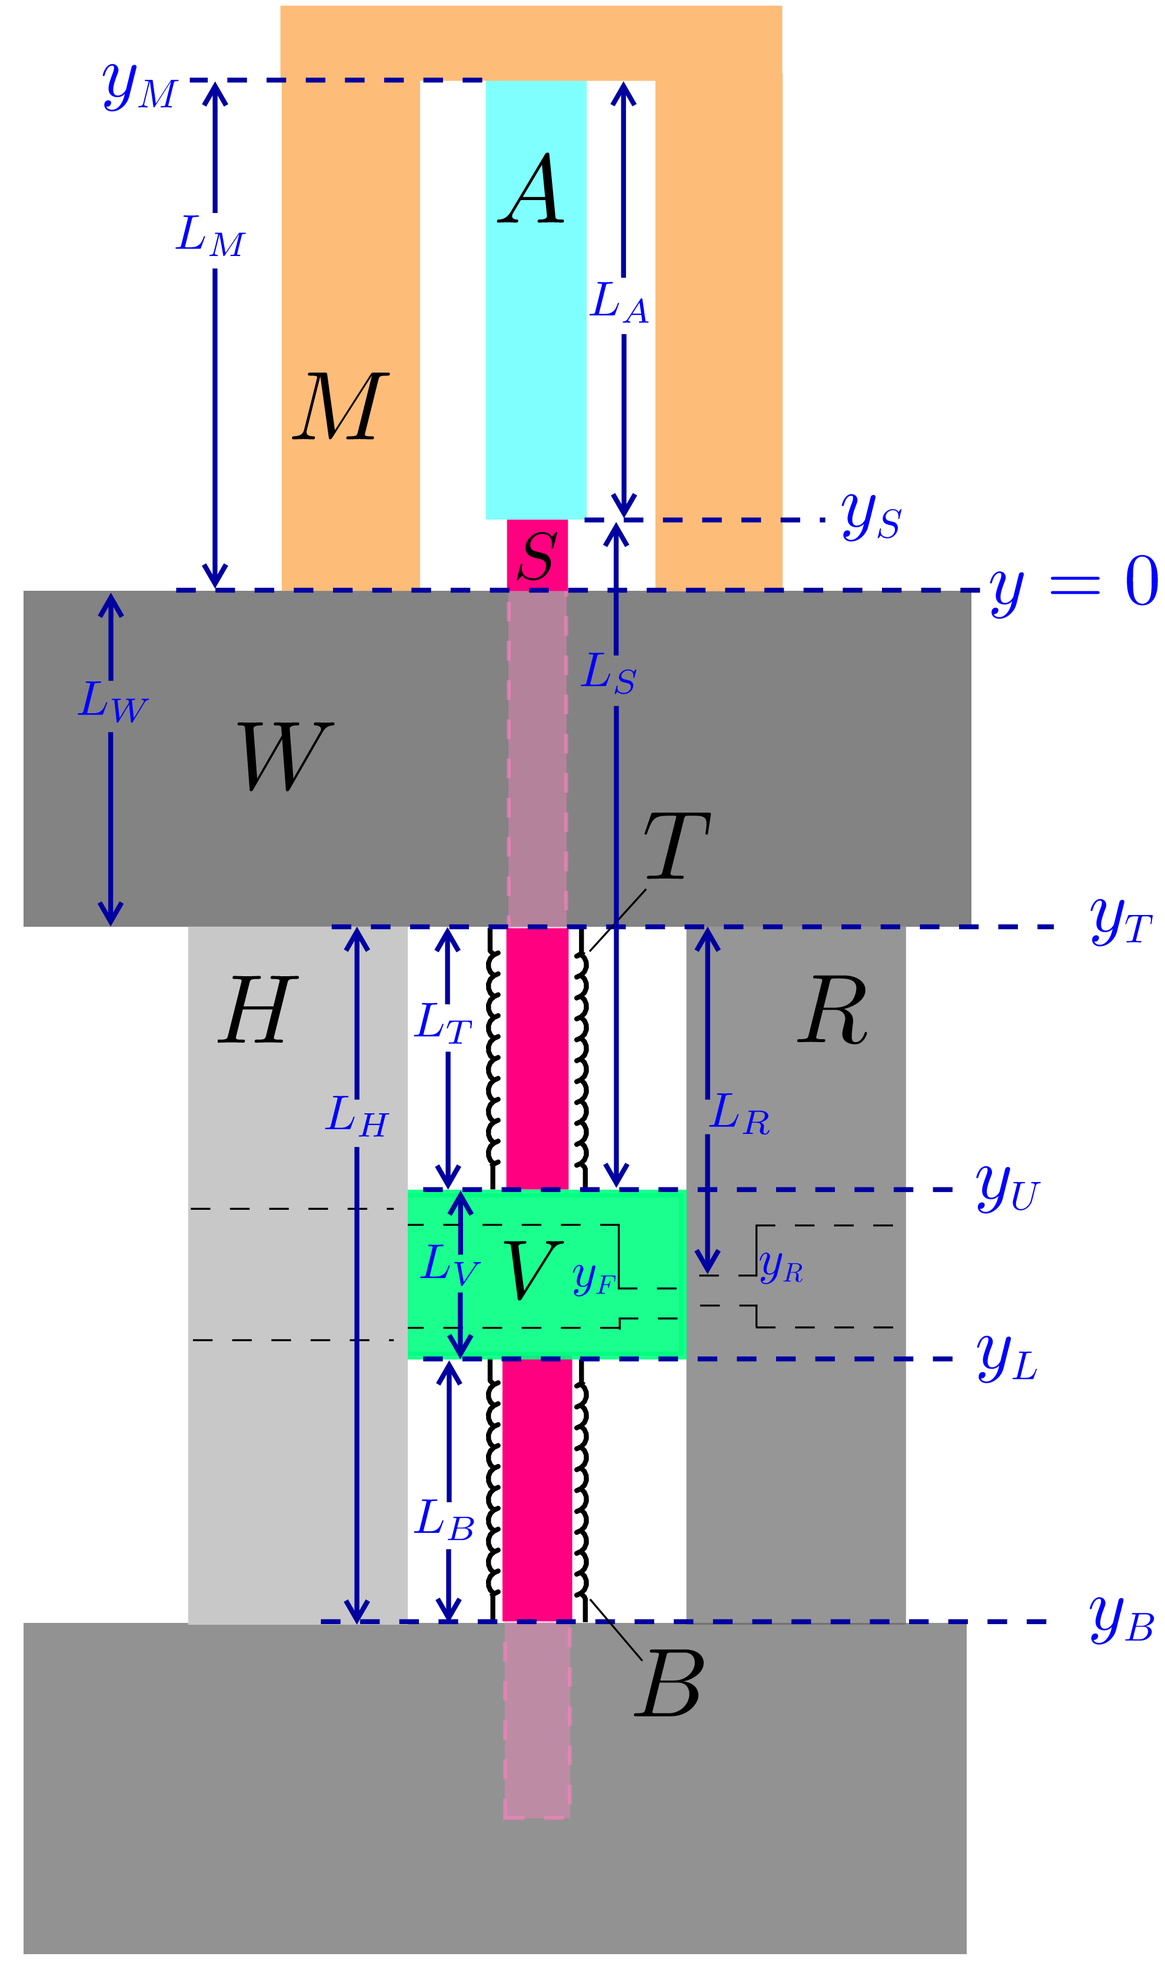
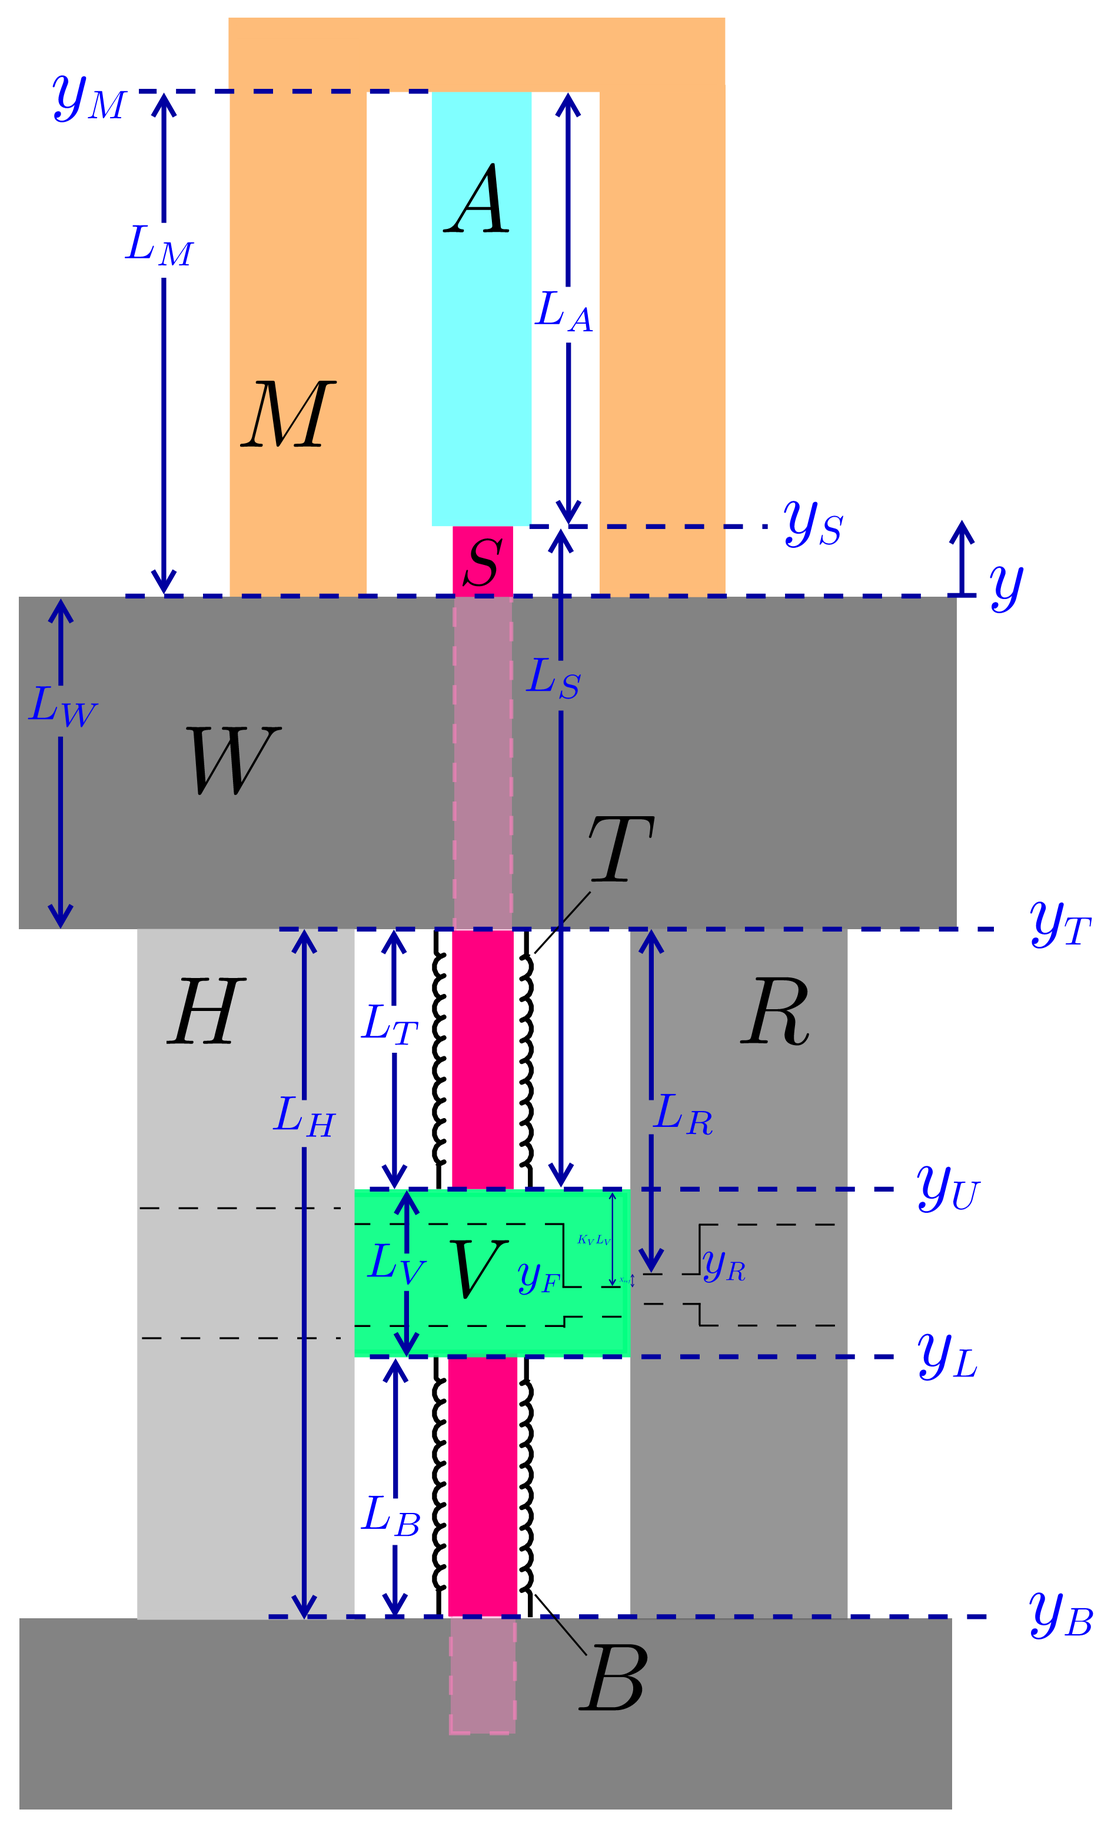
Almost done with TF; just need to add position sums and G_O

diff --git a/finalreport.tex b/finalreport.tex
@@ -131,7 +131,7 @@
 \newcommand{\coursename}{EME 185}
 \newcommand{\instructor}{Professor Jonathan Schofield}
 \newcommand{\ta}{Xiangpu Wang}
-\newcommand{\duedate}{5 June 2026}
+\newcommand{\duedate}{3 June 2026}
 % --- Convenience commands for common terms ---
 % Using these ensures consistent terminology throughout the report.
 \newcommand{\device}{PTCD}
@@ -148,6 +148,16 @@
 \newcommand{\Tref}{\SI{25}{\degreeCelsius}} %Celcius
 \newcommand{\specTempChange}{\SI{140}{\degreeCelsius}}
 
+\newcommand{\specEAl}{\SI{69}{\giga \pascal}}
+\newcommand{\specEALLV}{\SI{55}{\giga \pascal}}
+\newcommand{\specEInv}{\SI{193}{\giga \pascal}}
+\newcommand{\specEInc}{\SI{200}{\giga \pascal}}
+\newcommand{\specActuatorCTE}{\SI{22.85e-6}{\per \celsius}} %Evaluated at 25C
+\newcommand{\specMountCTE}{\SI{-30e-6}{\per \celsius}}
+\newcommand{\specInvarCTE}{\SI{1.2e-6}{\per \celsius}}
+\newcommand{\specInconelCTE}{\SI{13.2e-6}{\per \celsius}}
+\newcommand{\specBellowsK}{\SI{3806}{\newton \per \meter}}
+
 \newcommand{\Xhot}{\SI{480.696}{\micro \meter}}
 \newcommand{\Xcold}{\SI{213.289}{\micro \meter}}
 \newcommand{\specLengthChange}{\SI{267.407}{\micro \meter}}
@@ -160,12 +170,7 @@
 \newcommand{\specDeffConstTwo}{0.254} %mm
 \newcommand{\Aone}{\specDeffConstOne mm \specTolerancePercent}
 \newcommand{\Azero}{\specDeffConstTwo mm \specTolerancePercent}
-\newcommand{\specActuatorCTE}{\SI{22.85e-6}{\per \celsius}} %Evaluated at 25C
-\newcommand{\specMountCTE}{\SI{-30e-6}{\per \celsius}}
-\newcommand{\specInvarCTE}{\SI{1.2e-6}{\per \celsius}}
-\newcommand{\specInconelCTE}{\SI{13.2e-6}{\per \celsius}}
 \newcommand{\imageHeight}{4in} % Default image height for figures. Adjust as needed.
-\newcommand{\specYoungMActuator}{\SI{69}{\giga \pascal}}
 \newcommand{\specCrossSectArea}{\SI{6.3e-5}{\meter \squared}}
 \newcommand{\specOrigActuatorLength}{\SI{32.991}{\milli \meter}}
 
@@ -960,24 +965,29 @@ This Final Design Report illustrates the background, selected architecture, and 
         \end{figure}
 
         \newpage
-
-        \begin{figure}[H]
+        \thispagestyle{empty}
+        \begin{landscape}
             \centering
-            \includegraphics[width=\textwidth]{TF.png}
-            \caption{Full System Transfer Function}
+            \vspace*{\fill}
+            \includegraphics[width=1.5\textwidth]{TF.png}
+            \captionof{figure}{Full System Transfer Function}
             \label{fig:TF}
-        \end{figure}
+            \vspace*{\fill}
+        \end{landscape}
 
-        Figure \ref{fig:TF} depicts the full system Transfer Function for the \device. It will take a moment to unpack. Altogether, it comprises eleven smaller independent transfer functions whose respective output values are summed and equated in accordance with the physical behavior of the system. 
+        \todo{Figure out how to make Fig. \ref{fig:TF} fill the whole page}
+
+        Figure \ref{fig:TF} depicts the full system Transfer Function for the \device. It will take a moment to unpack. Altogether, it comprises 21 smaller independent transfer functions whose respective output values are summed and equated in accordance with the physical behavior of the system. 
         
         First, notice the general structure: the transfer function receives $T_{ambient}$ and returns $D_{effective}$ as prescribed.
-        The top row of sub-transfer functions represents the thermal expansion of each dimensionally critical component; each function takes the given temperature and outputs the thermally expanded length $\ell$ of its respective part.
-        However, because each bellows applies a spring force against the actuation motion, these parts will deform. A Force Balance processes these undeformed length values through a system of linear equations, yielding the final length $L$ of each component.
+        The smaller, top $(\hat{T})$ row of sub-transfer functions adjusts $T_{amb}$ for each part in the assembly to account for heat transfer from the hot internal gas.
+        The larger, second $(\hat{G})$ row represents the thermal expansion of each dimensionally critical component; each function takes the given adjusted temperature and outputs the thermally expanded length $\ell$ of its respective part.
+        However, because the bellows apply a spring force against the actuation motion, these parts will deform slightly. A Force Balance processes these undeformed length values through a system of linear equations, yielding the final length $L$ of each component.
         These final values are summed to obtain the position $y$ of each of the two square holes. Taking the difference between these positions, we obtain the height $X$ of the square orifice, which is finally converted to $D_{effective}$ by the orifice transfer function $\hat{G}_O$.
         
         To understand the origin of the transfer function structure, we must decompose the functional structure of each component of the \device.
         Figure \ref{fig:positional_block_diagram} illustrates the relative position of each component in simplified fashion.
-        Each part's thermal transfer function $\hat{G}$, undeformed length $\ell$, and final length $L$ is labeled with its respective subscript as shown in the figure:
+        Each part's temperature adjustment function $\hat{T}$, thermal transfer function $\hat{G}$, undeformed length $\ell$, and final length $L$ is labeled with its respective subscript as shown in the figure:
         
         \begin{multicols}{2}
             \begin{itemize}
@@ -992,9 +1002,7 @@ This Final Design Report illustrates the background, selected architecture, and 
                 \item Housing outlet or "rear" (R)
             \end{itemize}
         \end{multicols}
-        
-        \todo{Update Fig. \ref{fig:positional_block_diagram} it has some unrendered changes (4-16-26)}
-        
+                
         \begin{figure}[H]
             \centering
             \includegraphics[height=\textheight, width=\textwidth, keepaspectratio]{positional_block_diagram.png}
@@ -1002,8 +1010,7 @@ This Final Design Report illustrates the background, selected architecture, and 
             \label{fig:positional_block_diagram}
         \end{figure}
         
-        Figure \ref{fig:positional_block_diagram_zoom} shows a detail view of certain dimensions around the orifice that will be used later.
-
+        
         \begin{multicols}{2}
             \begin{figure}[H]
                 \centering
@@ -1014,20 +1021,22 @@ This Final Design Report illustrates the background, selected architecture, and 
             
             \columnbreak
             
+            Figure \ref{fig:positional_block_diagram_zoom} shows a detail view of certain dimensions around the orifice that will be used later.
             As described in section \ref{chap:arch}, the mount $(M)$ sits atop the housing "wall" $(W)$.
             The actuator $(A)$ dangles from its upper interior surface, which for our purposes is defined as the undersurface of the Belleville washer.
             The upper valve stem $(S)$ hangs from the bottom of the actuator, passes through the housing wall, and suspends the valve orifice $(V)$, which slides freely against the two surfaces $H$ and $R$.
             These represent the side walls of the housing $(H)$ and the rear face $(R)$ that contains the outlet orifice.
             The two bellows $(T \text{ and } B)$ span the distance between the valve orifice and the upper and lower housing walls.
         \end{multicols}
-
-        Figure \ref{fig:positional_block_diagram} also defines several useful positions according to a vertical coordinate frame. The position variable $y$ originates (equals $0$) at the top surface of the housing, which is considered fixed, and increases vertically.
+        
+        Figure \ref{fig:positional_block_diagram} also defines several useful positions according to a vertical coordinate frame. The position variable $y$ originates (i.e. equals $0$) at the top surface of the housing, which is considered fixed, and increases vertically.
         Thus, $y_M$ is positive, whereas $y_T$ is negative.
-
+        
         \subsection{Thermal Expansion}
         \label{subsec:spec:TF:top_row}
-            Each of the nine sub-transfer functions along the top row computes the thermal espansion of each part shown in Figure \ref{fig:positional_block_diagram}.
-            Its value can be approximated as a first-order Taylor Expansion\cite{ref_Jensen}\cite{ref_Stewart} with very little error due to the linear behavior of thermal expansion. This yields
+        Let us forgo the top row of temperature-adjusting functions for now and assume we know the temperature of each part. A full thermal analysis will provide these values later in this report.
+        Each of the nine sub-transfer functions along the second row computes the thermal espansion of each part shown in Figure \ref{fig:positional_block_diagram}.
+        Its value can be approximated as a first-order Taylor Expansion\cite{ref_Jensen}\cite{ref_Stewart} with very little error due to the linear behavior of thermal expansion. This yields
 
                 \begin{equation}
                     \ell_i = \hat{G}_{thermal} = \ell_0 + \frac{d \ell}{dT} \Delta T
@@ -1037,6 +1046,7 @@ This Final Design Report illustrates the background, selected architecture, and 
             According to the general principle of thermal expansion\cite{ref_Hibbeler_therm}, $\frac{d \ell}{dT} = \alpha \ell_0$ where $\alpha$ is the material coefficient of thermal expansion (CTE).
             Thus, the thermal-expansion transfer functions are defined as follows:
 
+            \vspace{1em}
             \begin{mdframed}
                 \begin{multicols}{2}
 
@@ -1075,7 +1085,7 @@ This Final Design Report illustrates the background, selected architecture, and 
         \subsection{Force Balance}
         \label{subsec:spec:TF:force_balance}
 
-            Assuming the \device\ is assembled at $T_{ref}$, which is room temperature, each component begins at undeformed. Thus, $L_i(T_{ref}) = \ell_i(T_{ref})$.
+            Assuming the \device\ is assembled at $T_{ref}$, which is room temperature, each component undeformed at that temperature. Thus, $L_i(T_{ref}) = \ell_i(T_{ref})$.
             As the temperature changes, the system behaves as a spring mechanism. The arrangement is shown in Figure \ref{fig:springs}.
 
             \begin{figure}[H]
@@ -1097,7 +1107,7 @@ This Final Design Report illustrates the background, selected architecture, and 
                 \label{fig:springs}
             \end{figure}
 
-            Solution of the final lengths of these springs requires a system of equation, derived using static force analysis.
+            Solution of the final lengths of these springs requires a system of equations, derived using static force analysis.
             We will use Figure \ref{fig:springs_simp}, which accurately depicts the contact between parts, as our guide.
             The system contains seven nodes, labeled according to their subscripted position $y$, that we will use as the basis for our equations.
             For each nodal force balance, let us assume that the springs act along one degree of freedom (DOF), inducing no rotational moment.
@@ -1132,7 +1142,7 @@ This Final Design Report illustrates the background, selected architecture, and 
                 \right.
             \end{equation}
 
-            This produces seven equations for eight unknowns $(F_M, F_A, F_S, F_T, F_H, F_V, F_B, \text{ and } F_W)$.
+            This produces seven equations for eight unknown forces $(F_M, F_A, F_S, F_T, F_H, F_V, F_B, \text{ and } F_W)$.
             One might observe that this system remains indeterminate without one additional equation\footnote{It is well-established in the field of Linear Algebra that a system of linear equations with more equations than unknowns is linearly dependent (one or more equations is redundant) or self-contradictory, while that with more unknowns than equations is incomplete. A determinate system of equations requires exactly as many linearly independent equations as unknowns\cite{ref_Anton}.}.
             In fact, this system is linearly dependent and, when rearranged, contains a pair of redundant equations.
 
@@ -1220,25 +1230,113 @@ This Final Design Report illustrates the background, selected architecture, and 
                     0 \\
                     0
                 \end{bmatrix}
+            \label{eq:matrix}
             \end{equation}
 
             Each undeformed length $\ell$ is provided by the thermal transfer functions. With the exception of the two bellows, whose spring constants are given, each spring constant $k$ is calculated by material properties and part geometry\cite{ref_Hibbeler_spring}:
-
+            
             \begin{equation}
                 k = \frac{EA}{\ell}
             \end{equation}
-
+            
             where $E$ is the elastic modulus, $A$ is the cross-sectional area, and $\ell$ is defined as before.
-
+            Once given the numerical value of $k$ for each part, we can easily solve for the final lengths with a matrix solver.
+            
+            Evaluating the matrix in equation \eqref{eq:matrix} yields the outputs for the second stage of the system Transfer Function:
+            
+            \vspace{1em}
+            \begin{mdframed}
+                \begin{multicols}{2}
+                    \begin{align*}
+                        L_M &= f(\ell_M, \ell_A, \ell_S, \ell_T, \ell_H, \ell_V, \ell_B, \ell_W) \\
+                        L_A &= f(\ell_M, \ell_A, \ell_S, \ell_T, \ell_H, \ell_V, \ell_B, \ell_W) \\
+                        L_S &= f(\ell_M, \ell_A, \ell_S, \ell_T, \ell_H, \ell_V, \ell_B, \ell_W) \\
+                        L_T &= f(\ell_M, \ell_A, \ell_S, \ell_T, \ell_H, \ell_V, \ell_B, \ell_W) 
+                    \end{align*}
+                    
+                    \columnbreak
+                    
+                    \begin{align*}
+                        L_H &= f(\ell_M, \ell_A, \ell_S, \ell_T, \ell_H, \ell_V, \ell_B, \ell_W)  \\ 
+                        L_V &= f(\ell_M, \ell_A, \ell_S, \ell_T, \ell_H, \ell_V, \ell_B, \ell_W)  \\ 
+                        L_B &= f(\ell_M, \ell_A, \ell_S, \ell_T, \ell_H, \ell_V, \ell_B, \ell_W)  \\ 
+                        L_W &= f(\ell_M, \ell_A, \ell_S, \ell_T, \ell_H, \ell_V, \ell_B, \ell_W)
+                    \end{align*}
+                \end{multicols}
+            \end{mdframed}
+            
+            Below are the values required to find the spring constant of each part.
+            
             \subsubsection{Mount}
             \label{subsubsec:spec:TF:force_balance:M}
 
-                % $E_M = E_{\text{ALLVAR}} = \EAlv$\cite{ref_AllvarAlloys}
+                $E_M = E_{\text{ALLVAR}} = \specEALLV$\cite{ref_AllvarAlloys}
+                
+                $A_M = \frac{\pi}{4} (OD^2 - ID^2) = \frac{\pi}{4} [(25mm)^2 - (15mm)^2] = 1257 mm^2$
 
-                % $A = \pi (OD^2 - ID^2) = \pi [(25mm)^2 - (15mm^2)] = 1257 mm^2$ [Fig. \ref{fig:Mount_cross_section}]
+            \subsubsection{Actuator}
+            \label{subsubsec:spec:TF:force_balance:A}
+
+                $E_A = E_{\text{Aluminum}} = \specEAl $ \todo{Cite E\_Aluminum\_6061}
+
+                $A_A = \frac{\pi}{4} D^2 = \frac{\pi}{4} (15mm)^2 = 176 mm^2$
+
+            \subsubsection{Valve Stem}
+            \label{subsubsec:spec:TF:force_balance:S}
+
+                $E_S = E_{\text{Invar}} = \specEInv $\cite{ref_McMaster_Invar}
+
+                $A_S = \frac{\pi}{4} D^2 = \frac{\pi}{4} (3.3528mm)^2 = 2.6 mm^2$
+
+            \subsubsection{Housing}
+            \label{subsubsec:spec:TF:force_balance:H}
+
+                $E_H = E_{\text{Invar}} = \specEInv $\cite{ref_CarpenterTechnology}
+
+                $A_H = LW = (72 mm) (40 mm) = 2880 mm^2$
+
+            \subsubsection{Valve Orifice}
+            \label{subsubsec:spec:TF:force_balance:V}
+
+                $E_V = E_{\text{Invar}} = \specEInv $
+
+                $A_V = LW = (7 mm) (7 mm) = 49 mm^2$
+
+            \subsubsection{Bellows}
+            \label{subsubsec:spec:TF:force_balance:TB}
+
+                $k_T = \specBellowsK $\cite{ref_miniflex_design}
+
+            \subsubsection{Top wall}
+            \label{subsubsec:spec:TF:force_balance:W}
+
+                $E_W = E_{\text{Invar}} = \specEInv $
+
+                $A_W = A_H = 2880 mm^2$
+
+            
+        \subsection{Position calculations}
+        \label{subsec:spec:TF:pos}
+
+            Finally, we can use these lengths to calculate the values $y_F$ and $y_R$ of the two orifice components shown in Figure \ref{fig:positional_block_diagram_zoom}.
+            Using the scheme depicted in Figure \ref{fig:positional_block_diagram}, these are as follows:
+
+            \begin{align}
+                y_F &= L_M - L_A - L_S - K_V L_V \\
+                y_R &= - \ell_w - L_R
+            \end{align}
+
+            To reach the upper corner of the leading orifice, which is cut into the Valve Orifice part, from the top surface of the housing (our reference location, where $y=0$),
+            one must travel up the mount, down the actuator, down the valve stem, and partway down the valve orifice.
+            Because $L_V$ represents the total height of the valve orifice, a multiplier is required to find the position of the square cut.
+            This feature is defined as \todo{Define $K_V$}
+
+            To reach the lower corner of the trailing orifice, which is cut into the Housing Outlet, from the same reference position,
+            one must travel straight down the housing wall
 
     \section{Subsystem Specificaitons}
     \label{sec:spec:rolldown}
+
 
         \todo{Specs here}
 
@@ -1901,7 +1999,7 @@ This Final Design Report illustrates the background, selected architecture, and 
                 \midrule
                 $E$ &
                 Young's modulus &
-                $\specYoungMActuator$
+                $\specEAl$
                 \\\addlinespace
                 $A$ &
                 Cross-sectional area &
@@ -2080,7 +2178,7 @@ This Final Design Report illustrates the background, selected architecture, and 
                 \vspace{1em}
                 Unit conversion for spring constant:
                 \begin{equation}
-                    k = 3600\;\frac{\text{lbf}}{\text{in}}
+                    k = \specBellowsK\;\frac{\text{lbf}}{\text{in}}
                     \times \frac{4.448\;\text{N}}{\text{lbf}}
                     \times \frac{1\;\text{in}}{0.0254\;\text{m}}
                     = 630{,}236\;\frac{\text{N}}{\text{m}}
@@ -2314,24 +2412,24 @@ This Final Design Report illustrates the background, selected architecture, and 
     ``Passive Temperature Compensation Device --- Project Prompt,''
     Sandia National Laboratories, SAND2025-15446O, 2025.
 
-    \bibitem{asme_b313}
+    \bibitem{ref_asme_b313}
     American Society of Mechanical Engineers, \textit{ASME B31.3: Process Piping}, 
     ASME, New York, NY, 2022.
 
-    \bibitem{steen2010laser}
+    \bibitem{ref_steen2010laser}
     W. M. Steen and J. Mazumder, \textit{Laser Material Processing}, 4th ed., 
     Springer, London, UK, 2010.
 
-    \bibitem{aws2020welding}
+    \bibitem{ref_aws2020welding}
     American Welding Society, \textit{AWS D1.1/D1.1M: Structural Welding Code --- Steel}, 
     AWS, Miami, FL, 2020.
 
-    \bibitem{miniflex_design}
+    \bibitem{ref_miniflex_design}
     Mini-Flex Corporation, \textit{Metal bellows Design Guide}, Mini-Flex Corporation, 
     Watervliet, NY. [Online]. Available: \url{https://mini-flex.com/metal-bellows-design-guide/}
     [Accessed: Mar. 2026].
 
-    \bibitem{muraca1972aluminum}
+    \bibitem{ref_muraca1972aluminum}
     R.\ F.\ Muraca and J.\ S.\ Whittick,
     \textit{Materials Data Handbook: Aluminum Alloy 6061}, 2nd ed.,
     Western Applied Research \& Development, Inc.,
@@ -2339,7 +2437,7 @@ This Final Design Report illustrates the background, selected architecture, and 
     Available: \url{https://ntrs.nasa.gov/api/citations/19720022808/downloads/19720022808.pdf}
     [Accessed: Mar. 2026].
 
-    \bibitem{matweb}
+    \bibitem{ref_matweb}
     MatWeb, LLC, \textit{MatWeb Material Property Data}, 
     [Online]. Available: \url{https://www.matweb.com}, 
     Accessed: March 20, 2026.
@@ -2395,6 +2493,10 @@ This Final Design Report illustrates the background, selected architecture, and 
     \bibitem{ref_Anton}
     H. Anton and A. Kaul, \textit{Elementary Linear Algebra}, 12th ed.
     Hoboken, NJ: Wiley, 2019, p. 228.
+
+    \bibitem{ref_McMaster_Invar}
+    McMaster-Carr, \textit{[Thermally Stable Invar 36 Nickel Alloy Rod], Part No. 4279K16}, McMaster-Carr Supply Company, 2026. [Online]. Available: \url{https://www.mcmaster.com/4279K16-4279K169/}
+    [Accessed: Apr. 17, 2026].
 
     % Add more \bibitem entries as needed.
     % In the body text, cite as: \cite{ref_sandiaprompt}

diff --git a/print.tex b/print.tex
@@ -11,13 +11,10 @@
 
 
 \begin{document}
-
+%order: MASTHVBWR
 \newcommand{\sub}[1]{_{\scalebox{0.55}{$#1$}}}
-
-\color{blue}
-
 \begin{align*}
-  &y\sub{0}
+  L_W
 \end{align*}
 
 \end{document}
